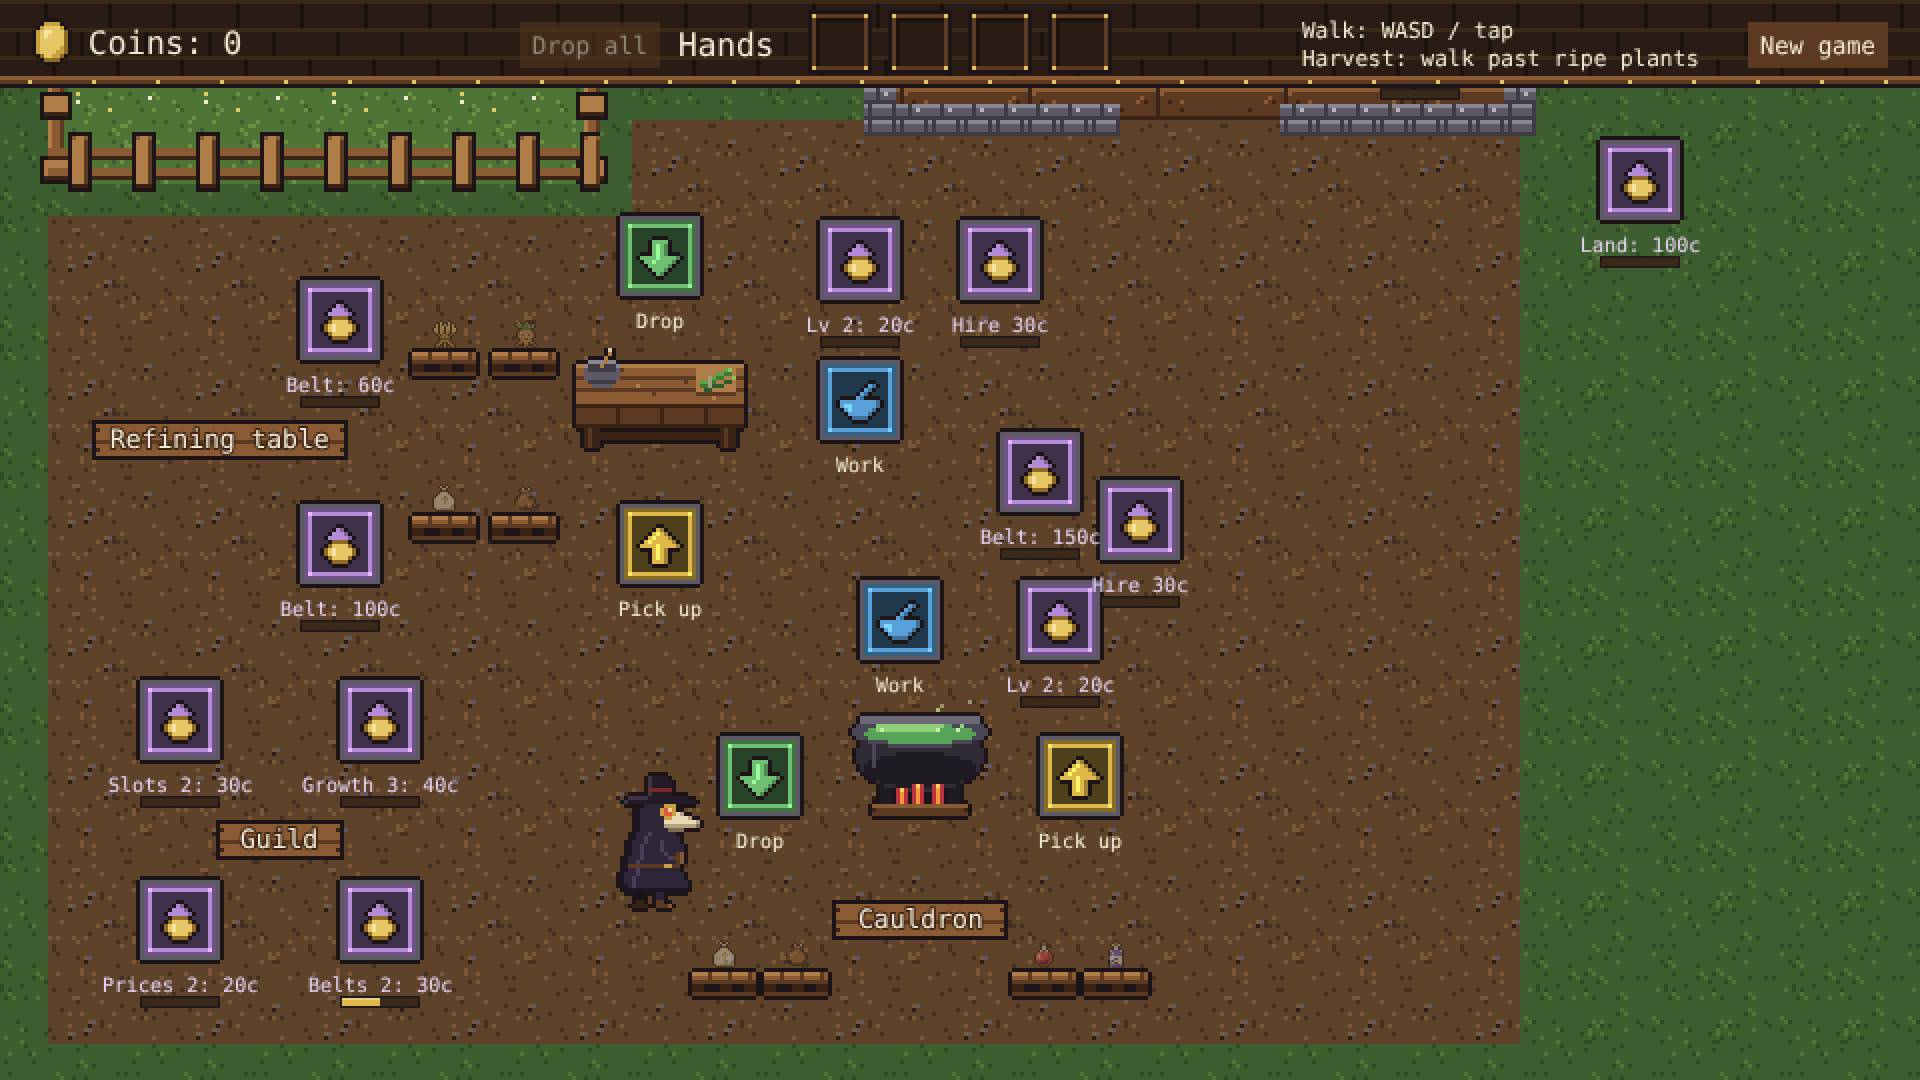
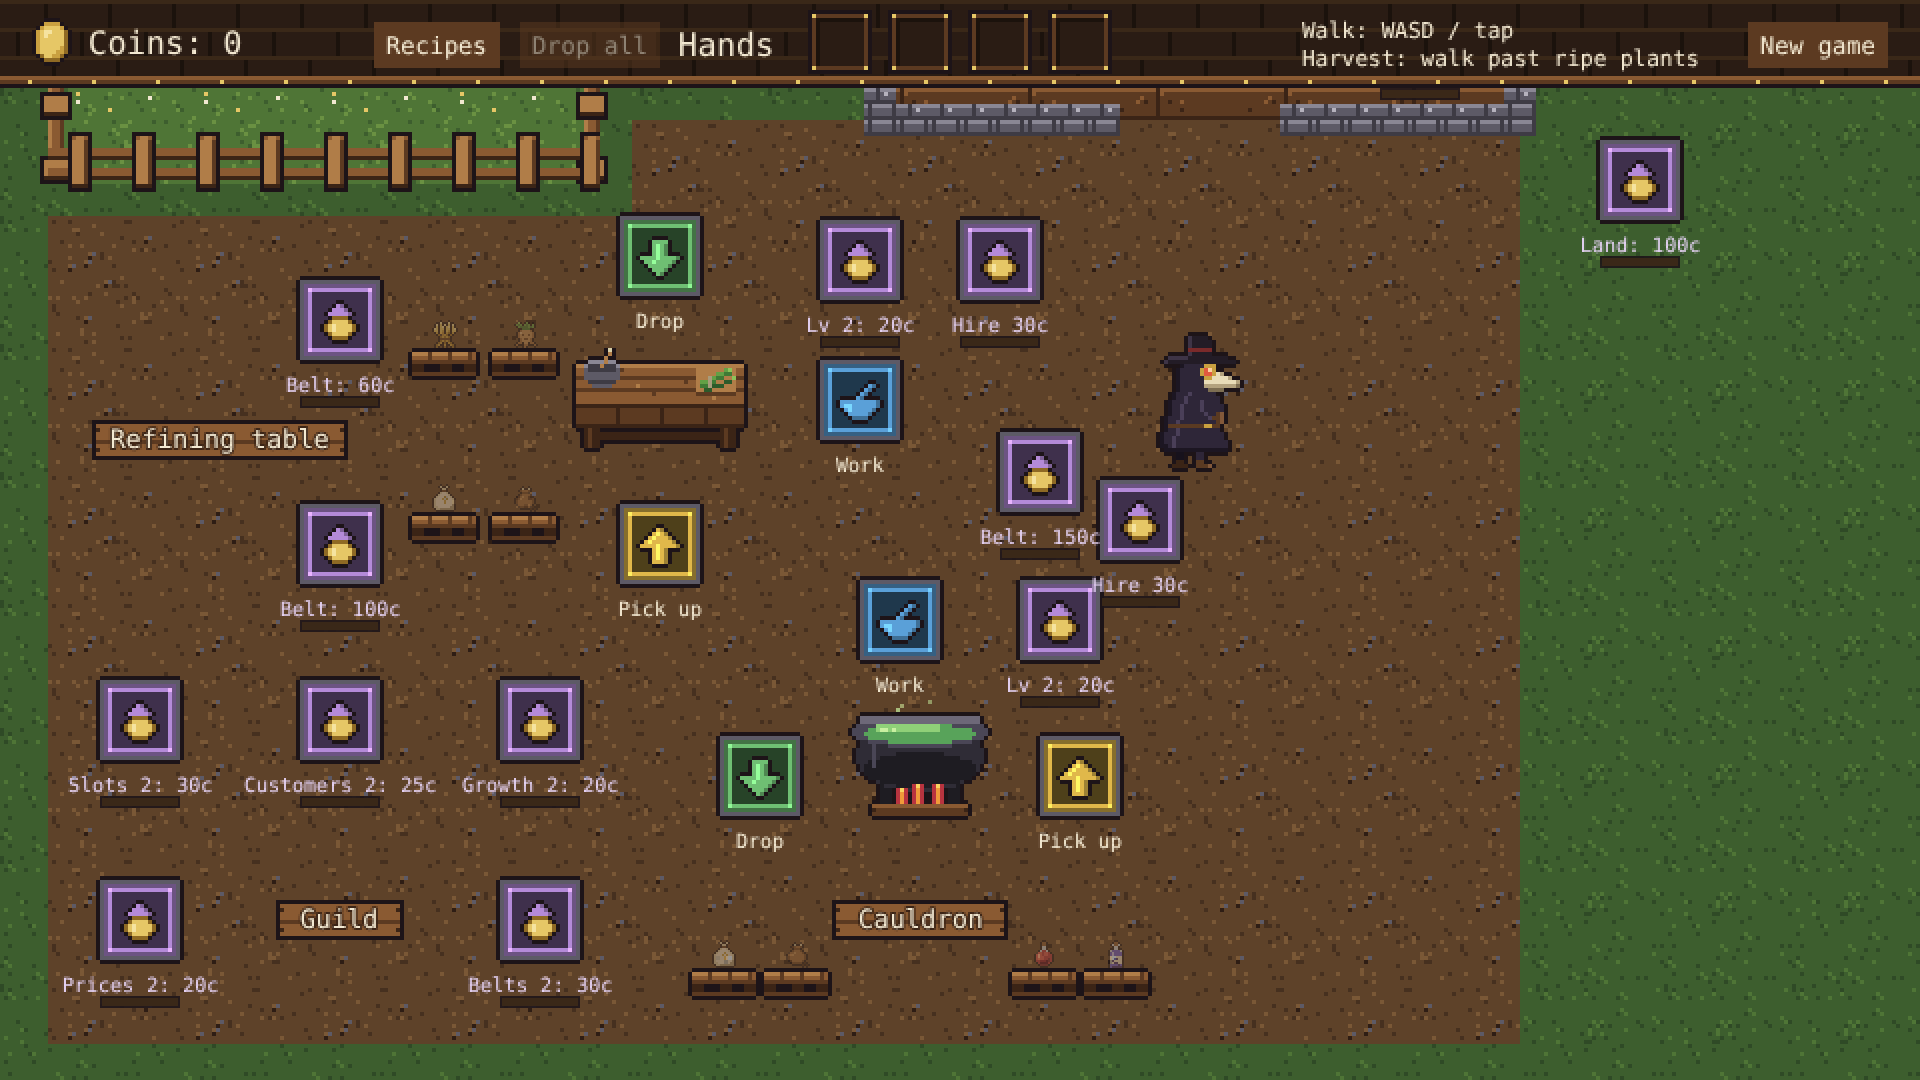
Document the customers upgrade
Created with Claude Opus 5.5 (medium)

Changed region(s): [[0.0312, 0.6111, 0.375, 0.9472], [0.5938, 0.3056, 0.6562, 0.4583], [0.1875, 0.0, 0.2812, 0.0611]]

diff --git a/README.md b/README.md
@@ -67,8 +67,9 @@ a longer sickle harvests from a quarter further away (25, then 50 coins each).
 The **guild** in the bottom-left corner of the yard sells upgrades for the rest of the apothecary:
 growth makes every garden grow a quarter faster per level (20, then 40 coins), belts run half again
 as fast per level, carrying more goods a second (30, then 60), prices make customers pay a quarter
-more per potion per level (20, then 40), and an extra order slot lets a fourth customer wait at the
-counter (30).
+more per potion per level (20, then 40), an extra order slot lets a fourth customer wait at the
+counter (30), and customers makes them come in half again as often per level, a new one every 8 to
+13 seconds and then every 6 to 10 instead of every 12 to 20 (25, then 50).
 
 ![The guild](docs/screenshots/guild.png)
 
